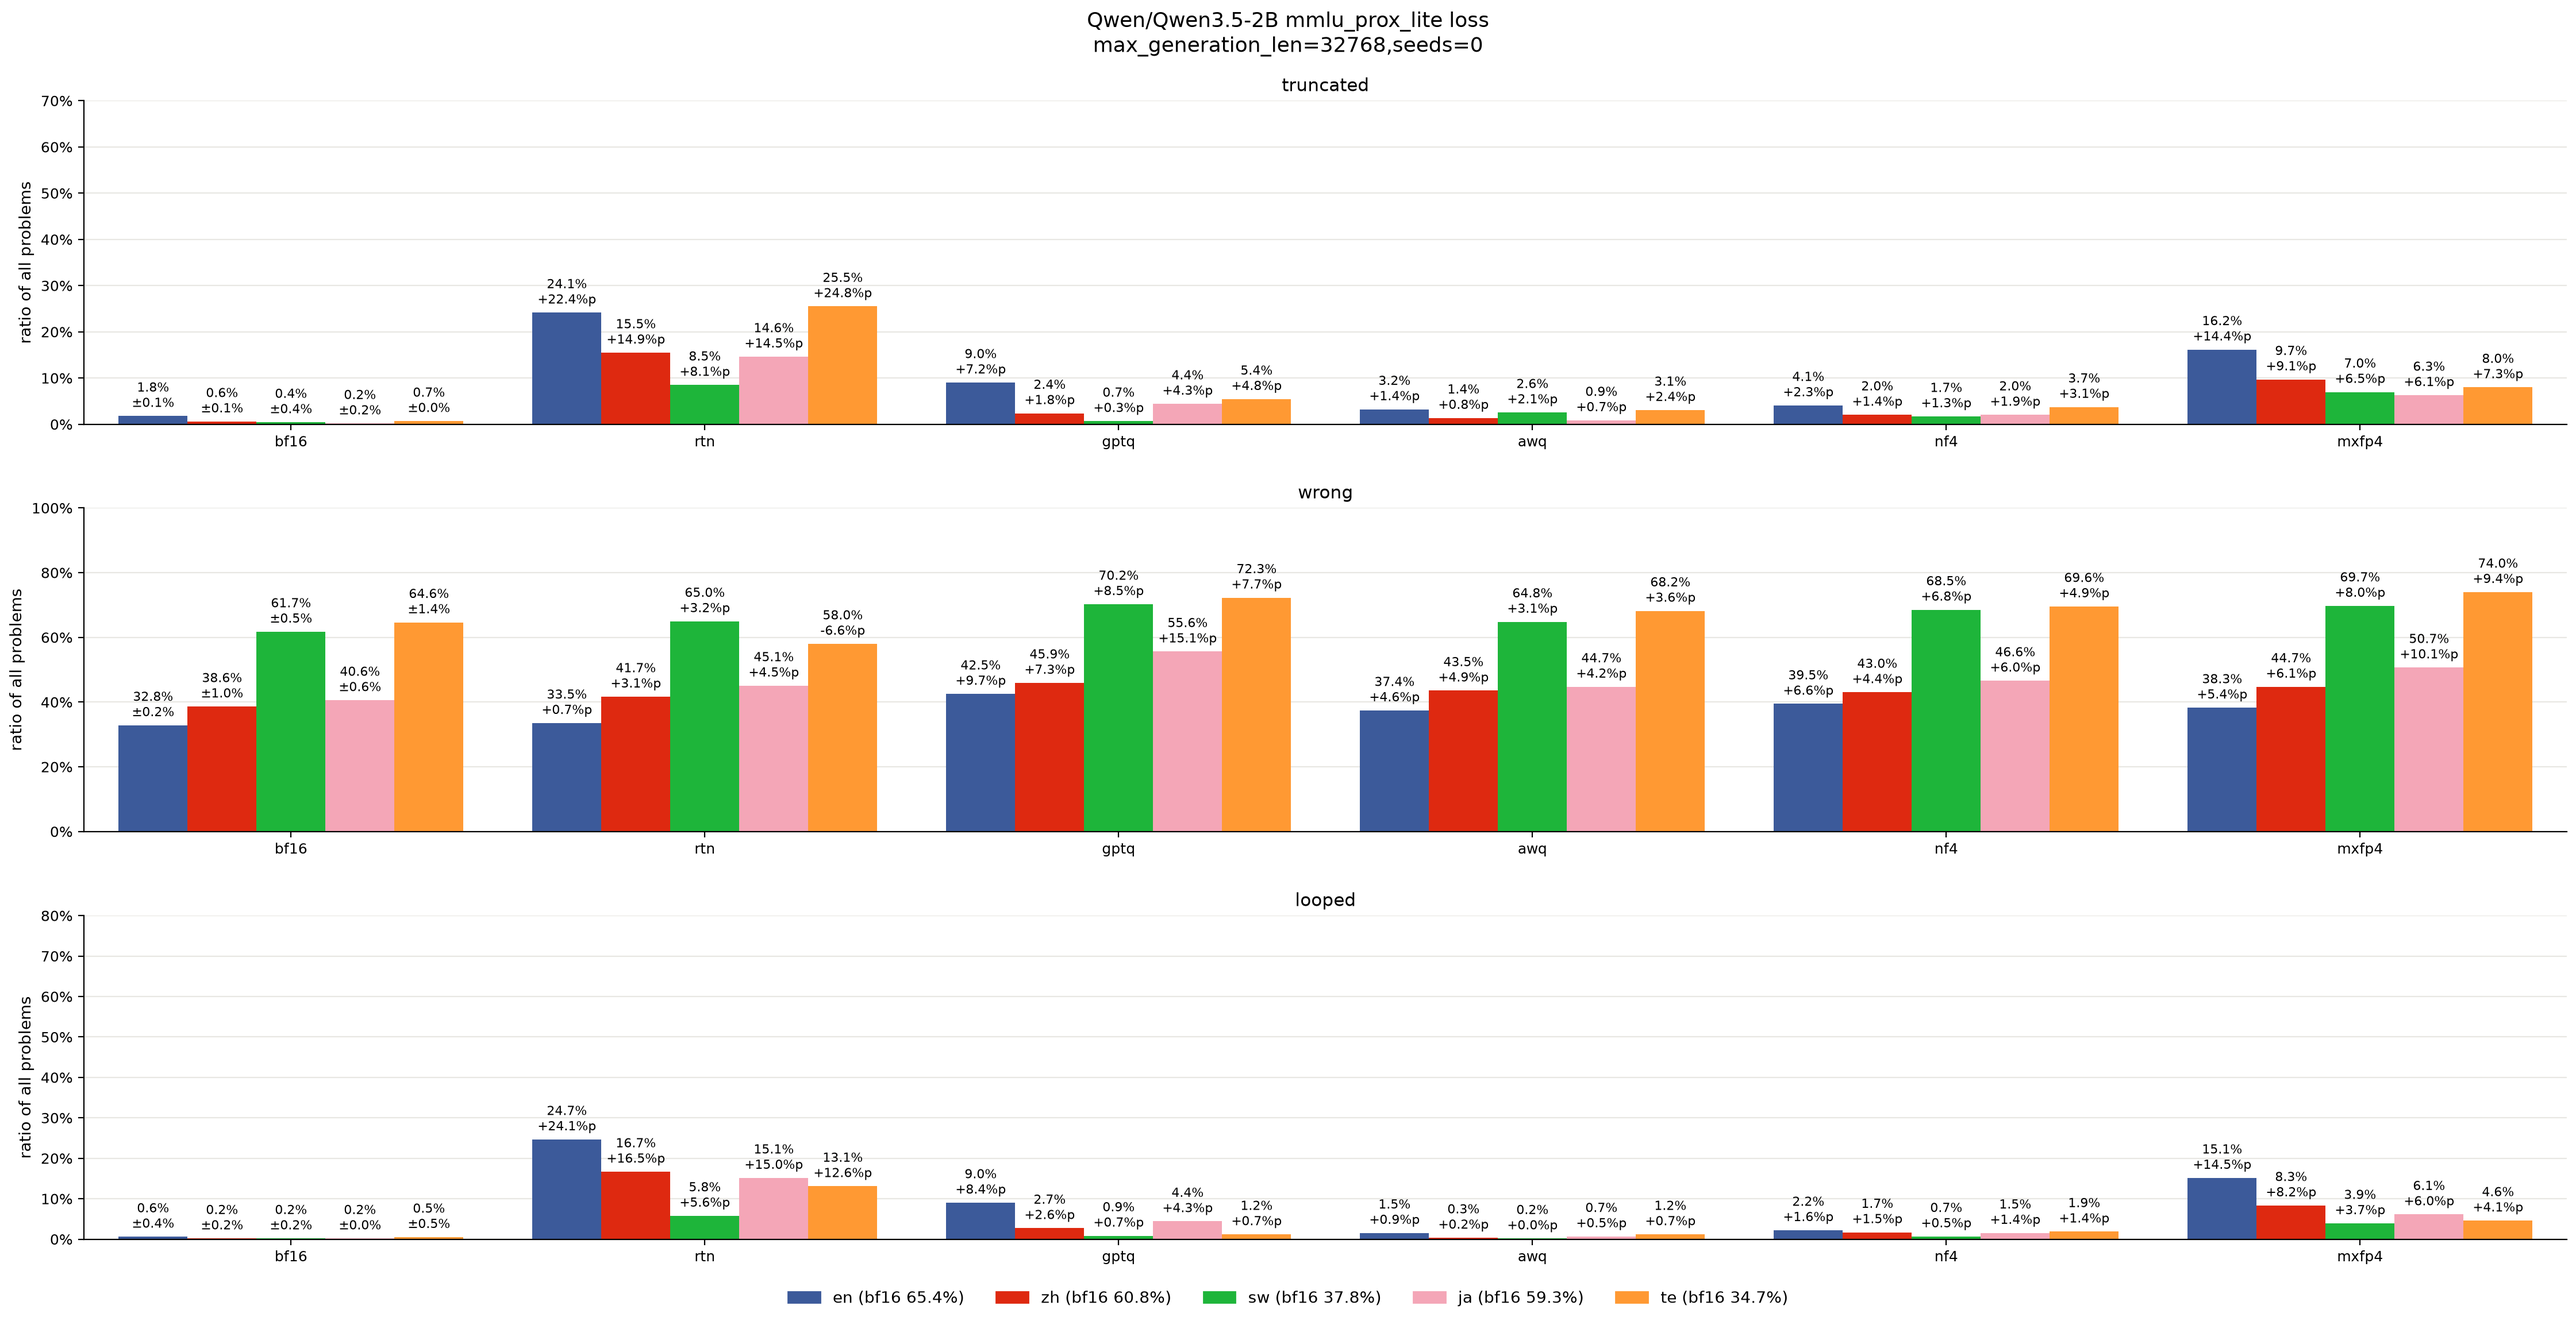
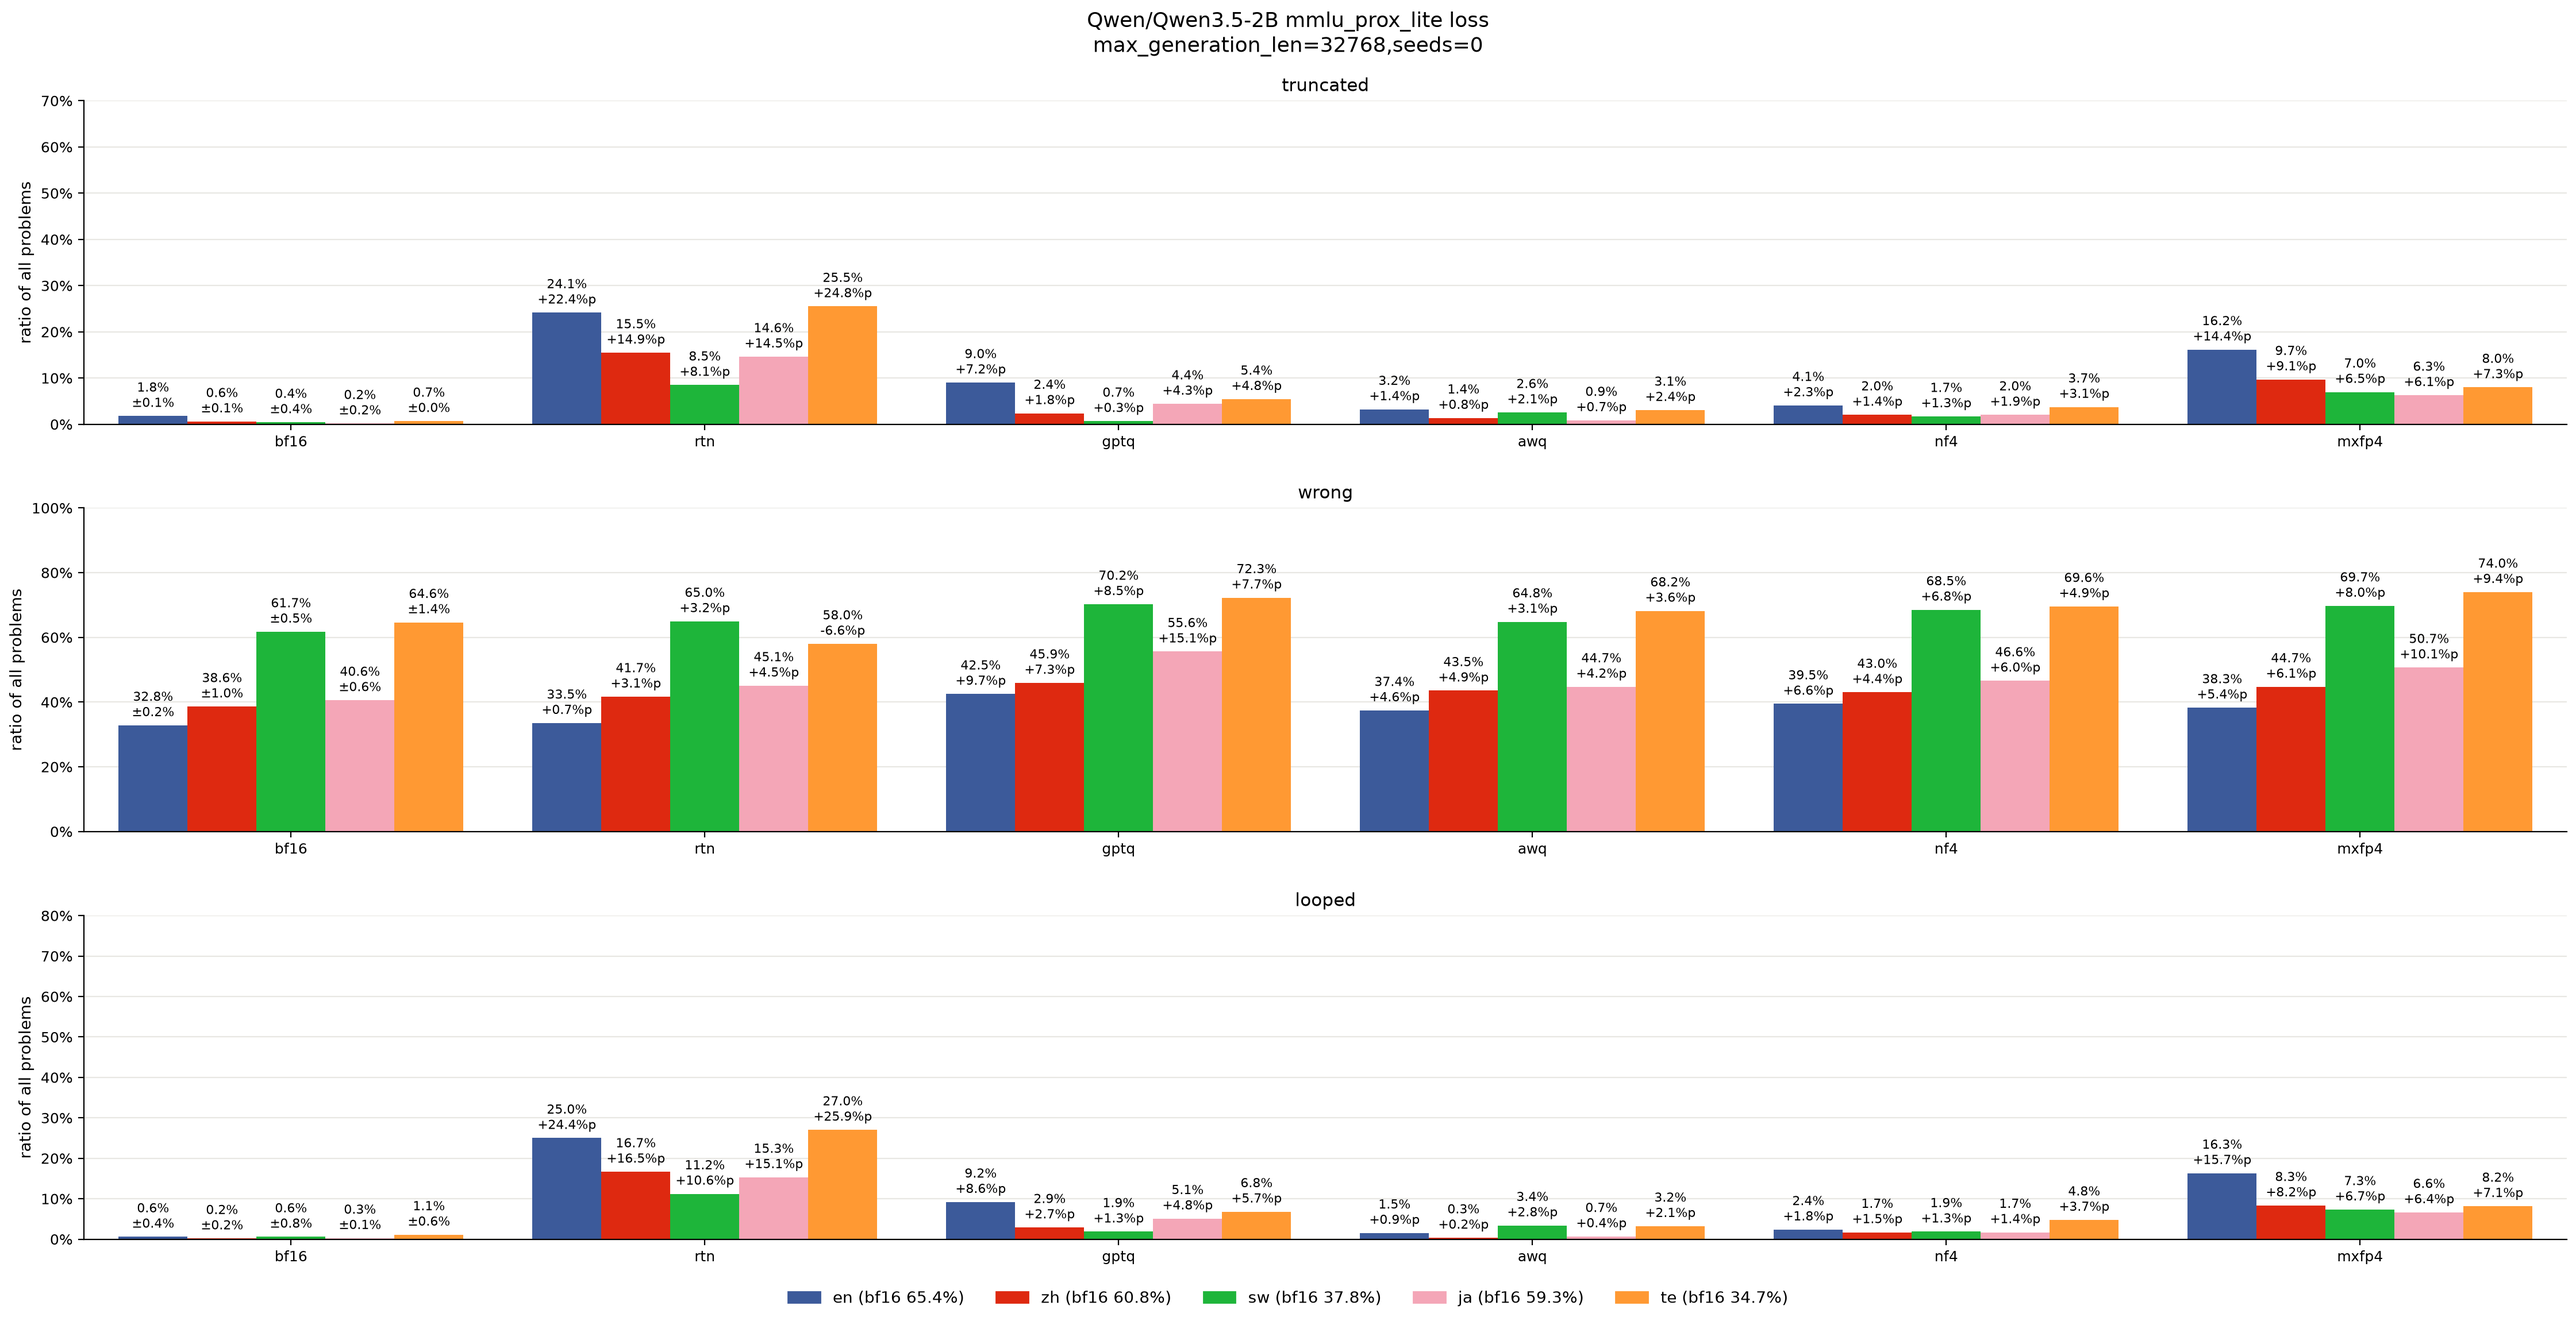
count loops in responses in loop ratio

diff --git a/utils/metrics.py b/utils/metrics.py
@@ -1,10 +1,16 @@
 from statistics import mean
 
 
+def is_loop(
+    text: str | None,
+) -> bool:
+    return text is not None and len(text) > 200 and text[:-200].count(text[-200:-150]) >= 5
+
+
 def get_loop_ratio(
     result: dict,
 ) -> float:
-    return mean(len(think) > 200 and think[:-200].count(think[-200:-150]) >= 5 for think in result["thinks"])
+    return mean(is_loop(think) or is_loop(response) for think, response in zip(result["thinks"], result["responses"]))
 
 
 def get_truncated_ratio(
